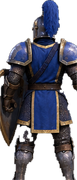
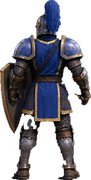
Fix clipped Footman and Archer sprites (and King/Prince, which share them)
Re-cut from the original painted sheets in "Ari's fun game":
- Footman: boxes were too tight and cut off his boots and the tip of his
  sword; widened, and the front box now starts clear of the big portrait's
  glow so no strip of backdrop comes along.
- Archer: the column started too far right (cut his hand and bow tip) and
  colour keying on the mottled backdrop faded his legs and kept red smears.
  Now cut with GrabCut seeded on his tunic, trim and leather: full legs,
  boots, bow and quiver, no smears.

Claude-Session: https://claude.ai/code/session_01JYFmvB5Gcbkw61DSAUXu2R

diff --git a/tools/extract_archer.py b/tools/extract_archer.py
@@ -1,85 +1,90 @@
 """
-Cut the Archer's three views from the right-hand column of the character sheet.
+Cut the Archer's three views from the right-hand column of his character sheet
+("human_archer.png" in the Desktop folder "Ari's fun game").
 
-The column's backdrop is mottled and compression-noisy rather than flat, so it is
-keyed by flooding inward from each panel's border with a wide tolerance — which
-follows the mottling — and then keeping the largest blob.
+    python tools/extract_archer.py path/to/human_archer.png
+
+The column's backdrop is mottled grey with red and black smears, and his
+trousers and boots are nearly the same tone, so colour keying either fades his
+legs out or keeps the smears. This uses GrabCut instead, seeded with what is
+surely him (the blue tunic, its pale trim, brown leather within his columns)
+and what is surely backdrop (the box margin, grey unsaturated tones, the dark
+ground shadow at his feet). Red smears that survive are dropped by colour.
 """
+import sys, numpy as np, cv2
 from PIL import Image, ImageFilter
-from scipy import ndimage
-import numpy as np
-
-SRC = "/root/.claude/uploads/c924b6f0-4b5e-51e7-8fe9-f91c13054c13/b9965dd2-image.png"
-COL = (1028, 1254)
+SRC = sys.argv[1] if len(sys.argv) > 1 else "human_archer.png"
+OUT = sys.argv[2] if len(sys.argv) > 2 else "src/assets"
+COL = (940, 1254)
 PANELS = {"front": (0, 400), "back": (400, 802), "side": (802, 1254)}
 OUT_H = 180
-
-im = Image.open(SRC).convert("RGB")
-
+im = cv2.imread(SRC)
 for name, (y0, y1) in PANELS.items():
-    cell = im.crop((COL[0], y0, COL[1], y1))
-    a = np.asarray(cell).astype(np.int16)
-    ref = np.median(np.concatenate([a[0], a[-1], a[:, 0], a[:, -1]]), axis=0)
-
-    # Flood the backdrop inward from the border. A colour test does not work here:
-    # the archer's trousers and boots are as dark as the mottled ground, so keying
-    # on brightness punches the legs out and leaves the boots floating.
-    bg_like = np.abs(a - ref).max(axis=2) < 30
-    # Seed the fill from the sides and top only. The archer's legs run to the
-    # bottom edge and his trousers are as dark as the ground, so a seed along the
-    # bottom lets the fill climb straight up through him.
-    seeds = np.zeros(bg_like.shape, bool)
-    seeds[0, :] = True
-    seeds[:, 0] = seeds[:, -1] = True
-    seeds &= bg_like
-    bg = ndimage.binary_propagation(seeds, mask=bg_like)
-
-    fg = ndimage.binary_closing(~bg, np.ones((5, 5)))
-    fg = ndimage.binary_fill_holes(fg)
-
-    # Keep the figure plus anything close to it — the bow is held at arm's length
-    # and forms its own blob — and drop the sheet's compression artefacts further out.
+    cell = im[y0:y1, COL[0]:COL[1]].copy()
+    h, w = cell.shape[:2]
+    mask = np.full((h, w), cv2.GC_PR_BGD, np.uint8)
+    # Sure background: a margin round the box and the noisy right-hand strip.
+    mask[:4, :] = cv2.GC_BGD; mask[-3:, :] = cv2.GC_BGD; mask[:, :4] = cv2.GC_BGD; mask[:, -40:] = cv2.GC_BGD
+    # Probable figure: the middle band where the archer stands.
+    mask[10:h-6, 30:w-70] = cv2.GC_PR_FGD
+    # Sure figure: his tunic (saturated blue) and the core of his body.
+    hsv = cv2.cvtColor(cell, cv2.COLOR_BGR2HSV)
+    blue = (hsv[..., 0] > 100) & (hsv[..., 0] < 130) & (hsv[..., 1] > 110) & (hsv[..., 2] > 70)
+    mask[blue] = cv2.GC_FGD
+    H, S, V = hsv[..., 0].astype(int), hsv[..., 1].astype(int), hsv[..., 2].astype(int)
+    # Leather: boots, trousers, bracers, quiver. Warm brown, moderately saturated.
+    leather = (H >= 5) & (H <= 22) & (S > 90) & (V > 45)
+    # Only below the hood line and within the figure's columns, so warm
+    # smears in the backdrop are not mistaken for him.
+    cols = np.where(blue.any(axis=0))[0]
+    if len(cols):
+        cx0, cx1 = max(0, cols.min() - 12), min(w, cols.max() + 12)
+        band = np.zeros_like(blue); band[:, cx0:cx1] = True
+        mask[leather & band] = cv2.GC_FGD
+    # The backdrop: grey, unsaturated, mid-tone. Sure background.
+    grey = (S < 40) & (V > 45) & (V < 175)
+    # ...except the pale trim sewn round his tunic, which sits right on the blue.
+    from scipy import ndimage as _nd
+    trim = _nd.binary_dilation(blue, iterations=4) & (S < 60) & (V > 110)
+    mask[grey & ~trim & (mask != cv2.GC_FGD)] = cv2.GC_BGD
+    mask[trim] = cv2.GC_FGD
+    # The painted ground shadow round his feet: dark and colourless, low down.
+    rows = np.arange(h)[:, None] > h * 0.78
+    shadow = (V < 75) & (S < 80) & rows
+    mask[shadow] = cv2.GC_BGD
+    bgd = np.zeros((1, 65), np.float64); fgd = np.zeros((1, 65), np.float64)
+    cv2.grabCut(cell, mask, None, bgd, fgd, 8, cv2.GC_INIT_WITH_MASK)
+    fg = np.isin(mask, (cv2.GC_FGD, cv2.GC_PR_FGD))
+    # Keep the figure and pieces touching it closely (the bow), drop red smears.
+    from scipy import ndimage
+    fg = ndimage.binary_opening(fg, np.ones((2, 2)))
+    # Fill only pinholes: filling every hole closed the gap between bow and string.
+    holes = ndimage.binary_fill_holes(fg) & ~fg
+    hl, hn = ndimage.label(holes)
+    if hn:
+        hs = ndimage.sum(holes, hl, range(1, hn + 1))
+        for i, a in enumerate(hs):
+            if a < 40: fg |= hl == i + 1
     lab, n = ndimage.label(fg, np.ones((3, 3)))
     if n:
-        sizes = ndimage.sum(fg, lab, range(1, n + 1))
-        main = int(np.argmax(sizes)) + 1
-        near = ndimage.binary_dilation(lab == main, iterations=18)
-        keep = lab == main
-        for idx, area in enumerate(sizes):
-            piece = lab == idx + 1
-            if idx + 1 == main or area < 300 or not (near & piece).any():
-                continue
-            mean = a[piece].mean(axis=0)
-            if mean[0] - mean[1] > 42 and mean[0] - mean[2] > 42:
-                continue  # a red artefact, not the bow
+        sizes = ndimage.sum(fg, lab, range(1, n + 1)); main = int(np.argmax(sizes)) + 1
+        near = ndimage.binary_dilation(lab == main, iterations=6); keep = lab == main
+        rgb = cell[..., ::-1].astype(int)
+        for i, a in enumerate(sizes):
+            piece = lab == i + 1
+            if i + 1 == main or a < 60 or not (near & piece).any(): continue
+            m = rgb[piece].mean(axis=0)
+            if m[0] - m[1] > 40 and m[0] - m[2] > 40: continue
             keep |= piece
         fg = keep
-
-    # A tolerance tight enough to keep the legs also leaves a halo of mottled
-    # backdrop clinging to the outline. Fade it on colour distance: figure pixels
-    # sit far from the backdrop tone and stay solid, haze goes.
-    dist = np.abs(a - ref).max(axis=2)
-    ramp = np.clip((dist - 26) / 22, 0, 1)
-    # The thumbnails also carry a near-black vertical band that sits FAR from the
-    # backdrop tone, so the ramp above keeps it. Nothing on the archer is that
-    # dark and that colourless — his darkest leather still has warmth — so drop
-    # near-black, unsaturated pixels outright.
-    sat = a.max(axis=2) - a.min(axis=2)
-    lum = a.mean(axis=2)
-    void = (lum < 34) & (sat < 26)
-    alpha = (fg.astype(float) * 255 * ramp * (~void)).astype(np.uint8)
-    img = Image.fromarray(np.dstack([a.astype(np.uint8), alpha]))
-    img.putalpha(Image.fromarray(alpha).filter(ImageFilter.GaussianBlur(0.6)))
+    alpha = (fg * 255).astype(np.uint8)
+    rgba = np.dstack([cell[..., ::-1], alpha])
+    img = Image.fromarray(rgba, "RGBA")
+    img.putalpha(Image.fromarray(alpha).filter(ImageFilter.GaussianBlur(0.7)))
     ys, xs = np.where(alpha > 20)
+    edge = dict(left=xs.min() <= 5, right=xs.max() >= w - 41, top=ys.min() <= 4, bottom=ys.max() >= h - 4)
     img = img.crop((int(xs.min()), int(ys.min()), int(xs.max()) + 1, int(ys.max()) + 1))
     img = img.resize((max(1, round(img.width * OUT_H / img.height)), OUT_H), Image.LANCZOS)
-    img.save(f"src/assets/archer_{name}.png", optimize=True)   # RGBA, not palette
-    print(f"archer_{name}", img.size)
+    img.save(f"{OUT}/archer_{name}.png", optimize=True)
+    print(name, img.size, "touches box edge:", [k for k, v in edge.items() if v] or "none")
 
-sp = [Image.open(f"src/assets/archer_{n}.png").convert("RGBA") for n in PANELS]
-prev = Image.new("RGBA", (sum(s.width for s in sp) + 60, OUT_H + 20), (60, 92, 44, 255))
-x = 15
-for s in sp:
-    prev.alpha_composite(s, (x, 10))
-    x += s.width + 15
-prev.save("test/archer-check.png")

diff --git a/tools/extract_footman.py b/tools/extract_footman.py
@@ -15,13 +15,19 @@ from PIL import Image, ImageFilter
 from scipy import ndimage
 import numpy as np
 
-SRC = "/root/.claude/uploads/c924b6f0-4b5e-51e7-8fe9-f91c13054c13/912b884e-image.png"
-VIEWS = {"front": (470, 86, 665, 445), "side": (715, 86, 885, 445), "back": (910, 86, 1065, 445)}
+import sys
+# The sheet is "human_footman.png" in the Desktop folder "Ari's fun game".
+SRC = sys.argv[1] if len(sys.argv) > 1 else "human_footman.png"
+# Generous boxes: the first cut was tight enough to take off the boots and the
+# tip of the sword. Each box stops short of its neighbour's figure and of the
+# FRONT/SIDE/BACK captions above and the in-game panel below. The front box
+# starts just right of the big portrait's glow, which keys as figure.
+VIEWS = {"front": (474, 78, 692, 500), "side": (700, 78, 892, 500), "back": (896, 78, 1096, 500)}
 OUT_H = 180
 
 im = Image.open(SRC).convert("RGB")
 whole = np.asarray(im).astype(np.int16)
-ref = np.median(whole[80:440, 460:1100].reshape(-1, 3), axis=0)
+ref = np.median(whole[80:500, 455:1096].reshape(-1, 3), axis=0)
 
 
 # Where the shield sits in each finished sprite, as a fraction of its width and
@@ -72,7 +78,6 @@ def strip_crest(img, name):
 for name, box in VIEWS.items():
     cell = im.crop(box)
     a = np.asarray(cell).astype(np.int16)
-
     fg = np.abs(a - ref).max(axis=2) > 26
     # Close pinholes where dark armour matches the backdrop, then drop specks.
     fg = ndimage.binary_closing(fg, np.ones((5, 5)))
